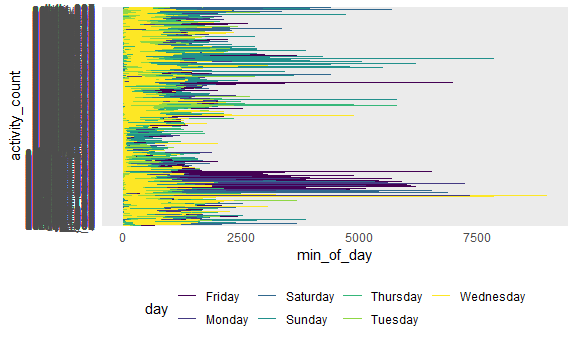
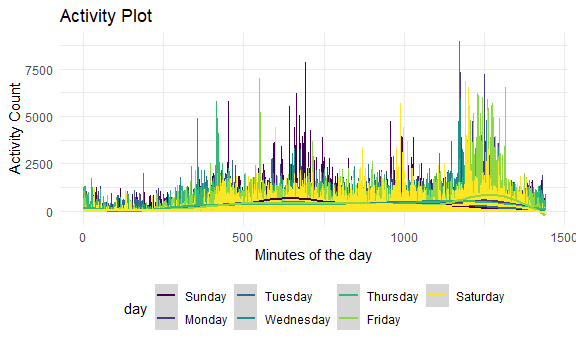
edits and fixes to problem 2

diff --git a/p8105_hw3_smv2138.md b/p8105_hw3_smv2138.md
@@ -6,14 +6,14 @@ Sushupta Vijapur
 library(tidyverse)
 ```
 
-    ## -- Attaching packages ------------------------------------------------------------------------------------------------------------------------ tidyverse 1.3.0 --
+    ## -- Attaching packages ------------------------------------------------------------------------------------------------------------ tidyverse 1.3.0 --
 
     ## v ggplot2 3.3.2     v purrr   0.3.4
     ## v tibble  3.0.3     v dplyr   1.0.2
     ## v tidyr   1.1.2     v stringr 1.4.0
     ## v readr   1.3.1     v forcats 0.5.0
 
-    ## -- Conflicts --------------------------------------------------------------------------------------------------------------------------- tidyverse_conflicts() --
+    ## -- Conflicts --------------------------------------------------------------------------------------------------------------- tidyverse_conflicts() --
     ## x dplyr::filter() masks stats::filter()
     ## x dplyr::lag()    masks stats::lag()
 
@@ -169,18 +169,28 @@ instacart %>%
 
 ### Part 1
 
+Load, tidy, and otherwise wrangle the data. Your final dataset should
+include all originally observed variables and values; have useful
+variable names; include a weekday vs weekend variable; and encode data
+with reasonable variable classes. Describe the resulting dataset
+(e.g. what variables exist, how many observations, etc).
+
 ``` r
 accel_data = 
   read_csv("./data/accel_data.csv") %>% 
-  janitor::clean_names() %>%
-  pivot_longer(
+  janitor::clean_names() %>% 
+   pivot_longer(
     activity_1:activity_1440,
-    names_to = "activity_count",
-    values_to = "min_of_day"
+    names_to = "min_of_day",
+    names_prefix = "activity_",
+    values_to = "activity_count"
   ) %>% 
   mutate(
+    activity_count = as.numeric(activity_count),
     min_of_day = as.numeric(min_of_day),
-    day_type = ifelse(day == "Saturday" | day == "Sunday", "weekend", "weekday")
+    day_type = ifelse(day == "Saturday" | day == "Sunday", "weekend", "weekday"),
+    day = factor(day),
+    day = fct_relevel(day, "Sunday", "Monday", "Tuesday", "Wednesday", "Thursday", "Friday", "Saturday")
   )
 ```
 
@@ -197,46 +207,81 @@ includes week, day\_id and day of the week variables. I used the day
 variable to create a day\_type variable which indicates whether it is a
 weekday or a weekend. Furthermore, I pivoted the activity counts and
 minutes variables to longer. Now there is an activity count and min of
-the day variable in tidy format.
+the day variable in tidy format.Furthermore, by releveling the data, the
+days of the week will be listed in intuitive order.
 
 ### Part 2
 
+Traditional analyses of accelerometer data focus on the total activity
+over the day. Using your tidied dataset, aggregate accross minutes to
+create a total activity variable for each day, and create a table
+showing these totals. Are any trends apparent?
+
 ``` r
 accel_data %>% 
-  group_by(day) %>% 
-  summarize(activity_count, min_of_day)
+  group_by(day, week) %>% 
+  summarize(total_act = sum(activity_count)) %>% 
+  pivot_wider(
+    names_from = day,
+    values_from = total_act
+  ) %>% 
+   knitr::kable()
 ```
 
     ## `summarise()` regrouping output by 'day' (override with `.groups` argument)
 
-    ## # A tibble: 50,400 x 3
-    ## # Groups:   day [7]
-    ##    day    activity_count min_of_day
-    ##    <chr>  <chr>               <dbl>
-    ##  1 Friday activity_1           88.4
-    ##  2 Friday activity_2           82.2
-    ##  3 Friday activity_3           64.4
-    ##  4 Friday activity_4           70.0
-    ##  5 Friday activity_5           75.0
-    ##  6 Friday activity_6           66.3
-    ##  7 Friday activity_7           53.8
-    ##  8 Friday activity_8           47.8
-    ##  9 Friday activity_9           55.5
-    ## 10 Friday activity_10          43.0
-    ## # ... with 50,390 more rows
-
-groupby and summarize problem make sure day of the week is in the order
-you want it to be
+| week | Sunday |    Monday |  Tuesday | Wednesday | Thursday |   Friday | Saturday |
+| ---: | -----: | --------: | -------: | --------: | -------: | -------: | -------: |
+|    1 | 631105 |  78828.07 | 307094.2 |    340115 | 355923.6 | 480542.6 |   376254 |
+|    2 | 422018 | 295431.00 | 423245.0 |    440962 | 474048.0 | 568839.0 |   607175 |
+|    3 | 467052 | 685910.00 | 381507.0 |    468869 | 371230.0 | 467420.0 |   382928 |
+|    4 | 260617 | 409450.00 | 319568.0 |    434460 | 340291.0 | 154049.0 |     1440 |
+|    5 | 138421 | 389080.00 | 367824.0 |    445366 | 549658.0 | 620860.0 |     1440 |
 
 ### Part 3
+
+Accelerometer data allows the inspection activity over the course of the
+day. Make a single-panel plot that shows the 24-hour activity time
+courses for each day and use color to indicate day of the week. Describe
+in words any patterns or conclusions you can make based on this graph.
 
 ``` r
 accel_data %>% 
   ggplot(aes(x = min_of_day, y = activity_count, color = day)) +
-  geom_line()
+  geom_line() +
+  geom_smooth(aes(group = day)) +
+  labs(
+    title = "Activity Plot",
+    x = "Minutes of the day",
+    y = "Activity Count"
+  )
 ```
 
+    ## `geom_smooth()` using method = 'gam' and formula 'y ~ s(x, bs = "cs")'
+
 <img src="p8105_hw3_smv2138_files/figure-gfm/unnamed-chunk-8-1.png" width="90%" />
+
+``` r
+  theme(axis.text.x = element_text(angle = 90, vjust = 0.5, hjust = 1))
+```
+
+    ## List of 1
+    ##  $ axis.text.x:List of 11
+    ##   ..$ family       : NULL
+    ##   ..$ face         : NULL
+    ##   ..$ colour       : NULL
+    ##   ..$ size         : NULL
+    ##   ..$ hjust        : num 1
+    ##   ..$ vjust        : num 0.5
+    ##   ..$ angle        : num 90
+    ##   ..$ lineheight   : NULL
+    ##   ..$ margin       : NULL
+    ##   ..$ debug        : NULL
+    ##   ..$ inherit.blank: logi FALSE
+    ##   ..- attr(*, "class")= chr [1:2] "element_text" "element"
+    ##  - attr(*, "class")= chr [1:2] "theme" "gg"
+    ##  - attr(*, "complete")= logi FALSE
+    ##  - attr(*, "validate")= logi TRUE
 
 24 hours of activity looks like in each minute in each day min on x
 activity count on y. color is day of the week geom\_line might work
@@ -262,7 +307,8 @@ tmin and tmax to numeric. Changed prcp, snow and snwd from mm to cm.
 Changed tmax and tmin from tenth of degrees of C to C.
 
 ``` r
-ny_noaa %>% 
+ny_noaa =
+  ny_noaa %>% 
   separate(date, into = c("year", "day", "month")) %>% 
   mutate(
     prcp = as.numeric(prcp*0.1),
@@ -274,21 +320,6 @@ ny_noaa %>%
   count(snow) %>% 
   arrange(desc(n))
 ```
-
-    ## # A tibble: 282 x 2
-    ##     snow       n
-    ##    <dbl>   <int>
-    ##  1   0   2008508
-    ##  2  NA    381221
-    ##  3   2.5   31022
-    ##  4   1.3   23095
-    ##  5   5.1   18274
-    ##  6   7.6   10173
-    ##  7   0.8    9962
-    ##  8   0.5    9748
-    ##  9   3.8    9197
-    ## 10   0.3    8790
-    ## # ... with 272 more rows
 
 The most commonly observed value for snowfall in cm is 0. This is
 probably due to the fact that the data is collected from all around the
@@ -303,37 +334,6 @@ in July in each station across years. Is there any observable /
 interpretable structure? Any outliers?
 
 Notes for me:
-
-``` r
-ny_noaa %>% 
-  separate(date, into = c("year", "day", "month")) %>% 
-  mutate(
-    prcp = as.numeric(prcp*0.1),
-    snow = as.numeric(snow*0.1),
-    snwd = as.numeric(snwd*0.1),
-    tmax = as.numeric(tmax)*10,
-    tmin = as.numeric(tmin)*10
-  )
-```
-
-    ## # A tibble: 2,595,176 x 9
-    ##    id          year  day   month  prcp  snow  snwd  tmax  tmin
-    ##    <chr>       <chr> <chr> <chr> <dbl> <dbl> <dbl> <dbl> <dbl>
-    ##  1 US1NYAB0001 2007  11    01       NA    NA    NA    NA    NA
-    ##  2 US1NYAB0001 2007  11    02       NA    NA    NA    NA    NA
-    ##  3 US1NYAB0001 2007  11    03       NA    NA    NA    NA    NA
-    ##  4 US1NYAB0001 2007  11    04       NA    NA    NA    NA    NA
-    ##  5 US1NYAB0001 2007  11    05       NA    NA    NA    NA    NA
-    ##  6 US1NYAB0001 2007  11    06       NA    NA    NA    NA    NA
-    ##  7 US1NYAB0001 2007  11    07       NA    NA    NA    NA    NA
-    ##  8 US1NYAB0001 2007  11    08       NA    NA    NA    NA    NA
-    ##  9 US1NYAB0001 2007  11    09       NA    NA    NA    NA    NA
-    ## 10 US1NYAB0001 2007  11    10       NA    NA    NA    NA    NA
-    ## # ... with 2,595,166 more rows
-
-``` r
-  ##filter(month == "01", "07")
-```
 
 collection of data mani followed by a plotting step group by and
 summarize problem groupby station, year, month and the summarize avg max
